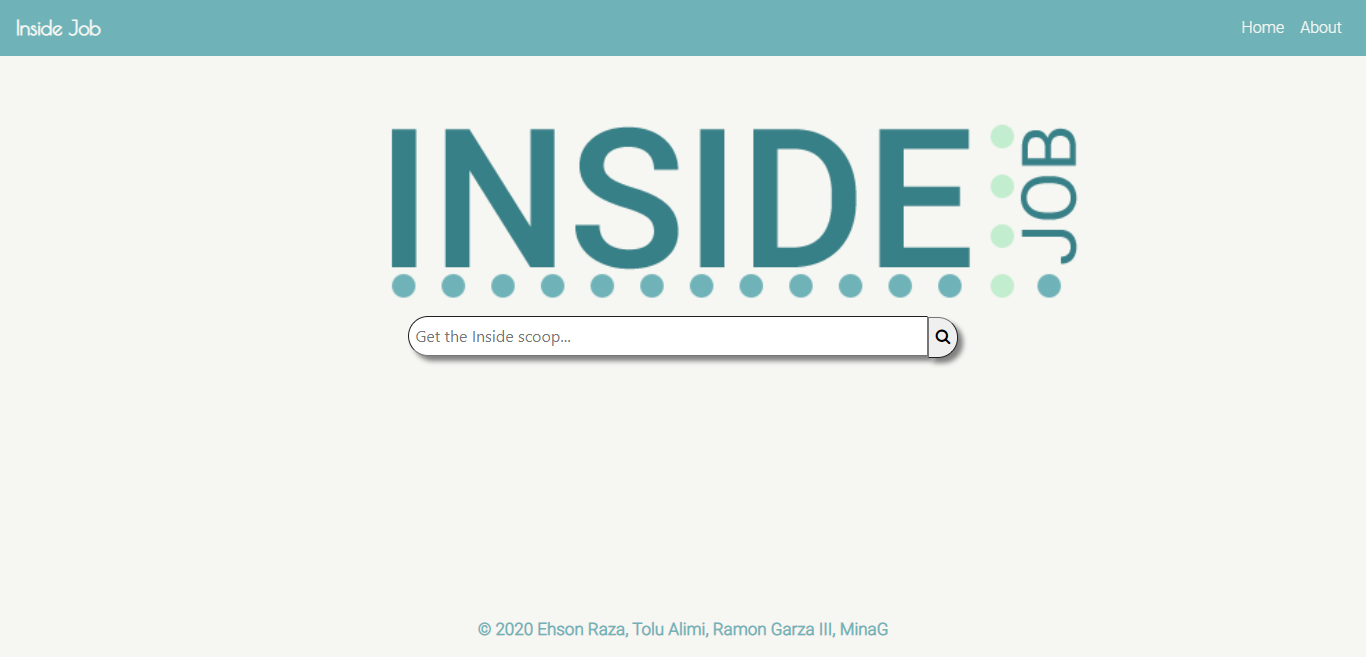
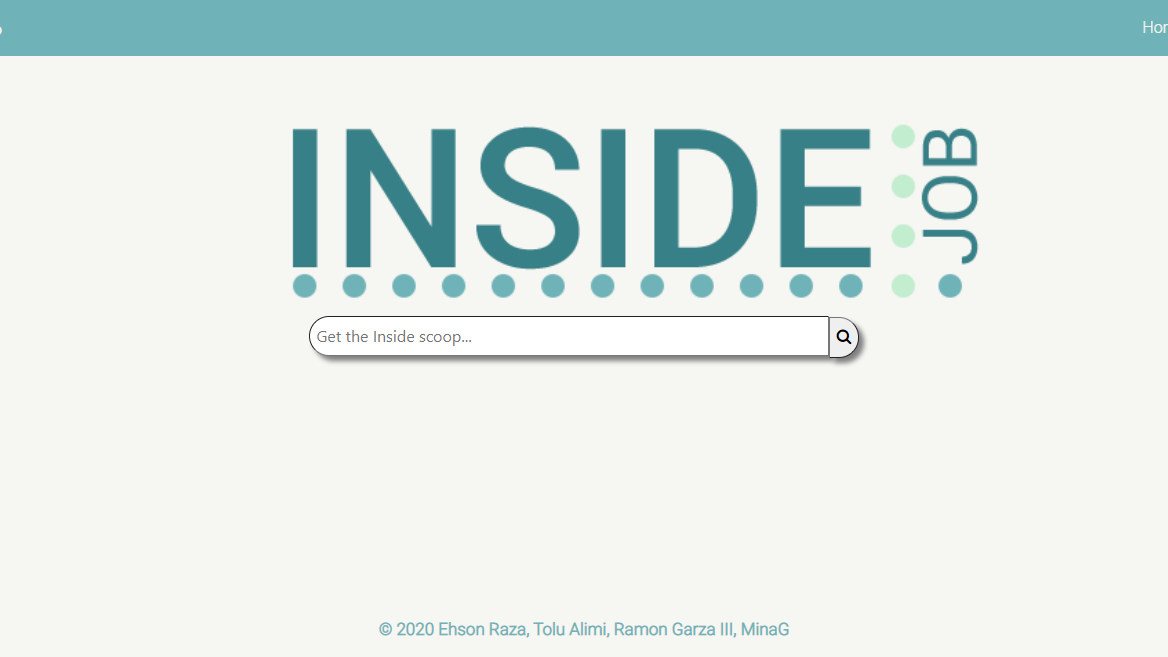
Fixed inside job images. Incorporated ability to order projects through the admin page.

diff --git a/myportfolio/portfolio/migrations/0002_auto_20201001_1016.py b/myportfolio/portfolio/migrations/0002_auto_20201001_1016.py
@@ -1,0 +1,23 @@
+# Generated by Django 3.1.1 on 2020-10-01 15:16
+
+from django.db import migrations, models
+
+
+class Migration(migrations.Migration):
+
+    dependencies = [
+        ('portfolio', '0001_initial'),
+    ]
+
+    operations = [
+        migrations.AlterModelOptions(
+            name='project',
+            options={'ordering': ('order',)},
+        ),
+        migrations.AddField(
+            model_name='project',
+            name='order',
+            field=models.PositiveIntegerField(db_index=True, default=1, editable=False, verbose_name='order'),
+            preserve_default=False,
+        ),
+    ]

diff --git a/myportfolio/portfolio/models.py b/myportfolio/portfolio/models.py
@@ -1,7 +1,8 @@
 from django.db import models
+from ordered_model.models import OrderedModel
 
 # Create your models here.
-class Project(models.Model):
+class Project(OrderedModel):
     title = models.CharField(max_length=255)
     description = models.TextField()
     imagePath = models.CharField(max_length=255)
@@ -9,6 +10,9 @@ class Project(models.Model):
     fullImagePath = models.CharField(max_length=255)
     siteURL = models.CharField(max_length=255)
     gitURL = models.CharField(max_length=255)
+
+    class Meta(OrderedModel.Meta):
+        pass
 
     def __str__(self):
         return self.title

diff --git a/myportfolio/portfolio/admin.py b/myportfolio/portfolio/admin.py
@@ -1,10 +1,14 @@
 from django.contrib import admin
+from ordered_model.admin import OrderedModelAdmin
 
 # Register your models here.
 from .models import Project
+
+class ProjectAdmin(OrderedModelAdmin):
+    list_display = ('title', 'move_up_down_links')
 
 admin.site.site_header = "Portfolio Admin"
 admin.site.site_title = "Projects"
 admin.site.index_title = "Welcome to the Projects Admin Area"
 
-admin.site.register(Project)
+admin.site.register(Project, ProjectAdmin)

diff --git a/myportfolio/myportfolio/settings.py b/myportfolio/myportfolio/settings.py
@@ -44,6 +44,7 @@ INSTALLED_APPS = [
     'django.contrib.sessions',
     'django.contrib.messages',
     'django.contrib.staticfiles',
+    'ordered_model',
 ]
 
 MIDDLEWARE = [
